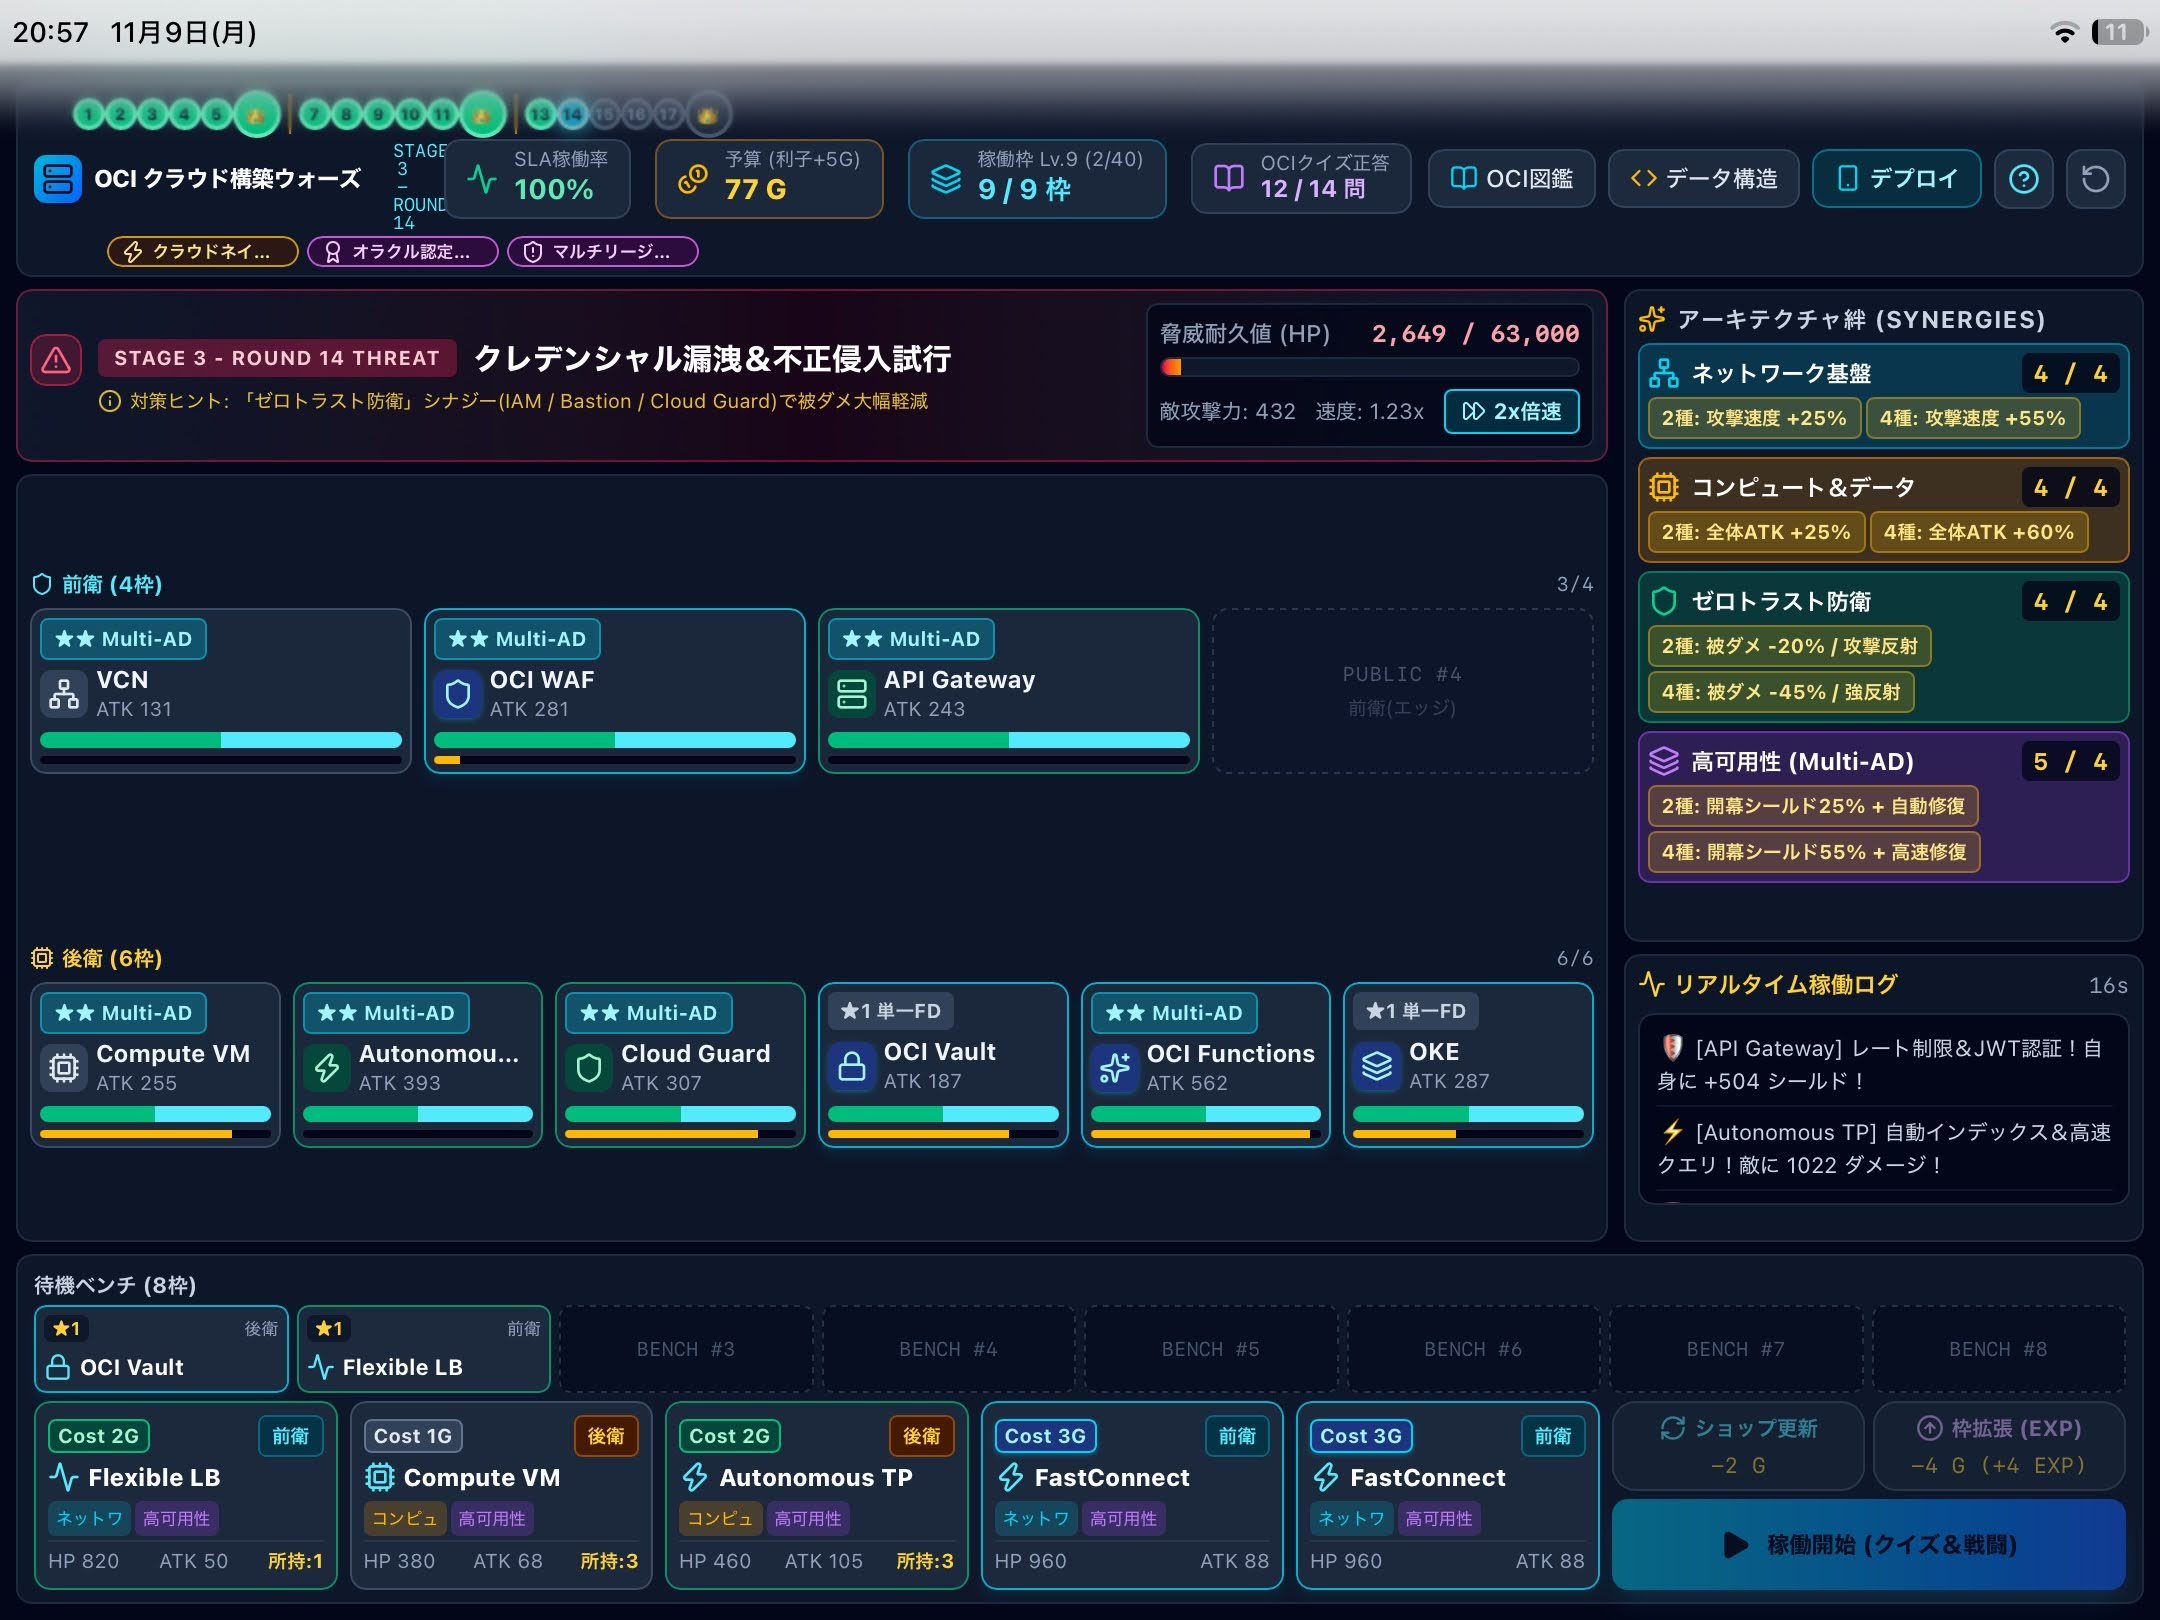
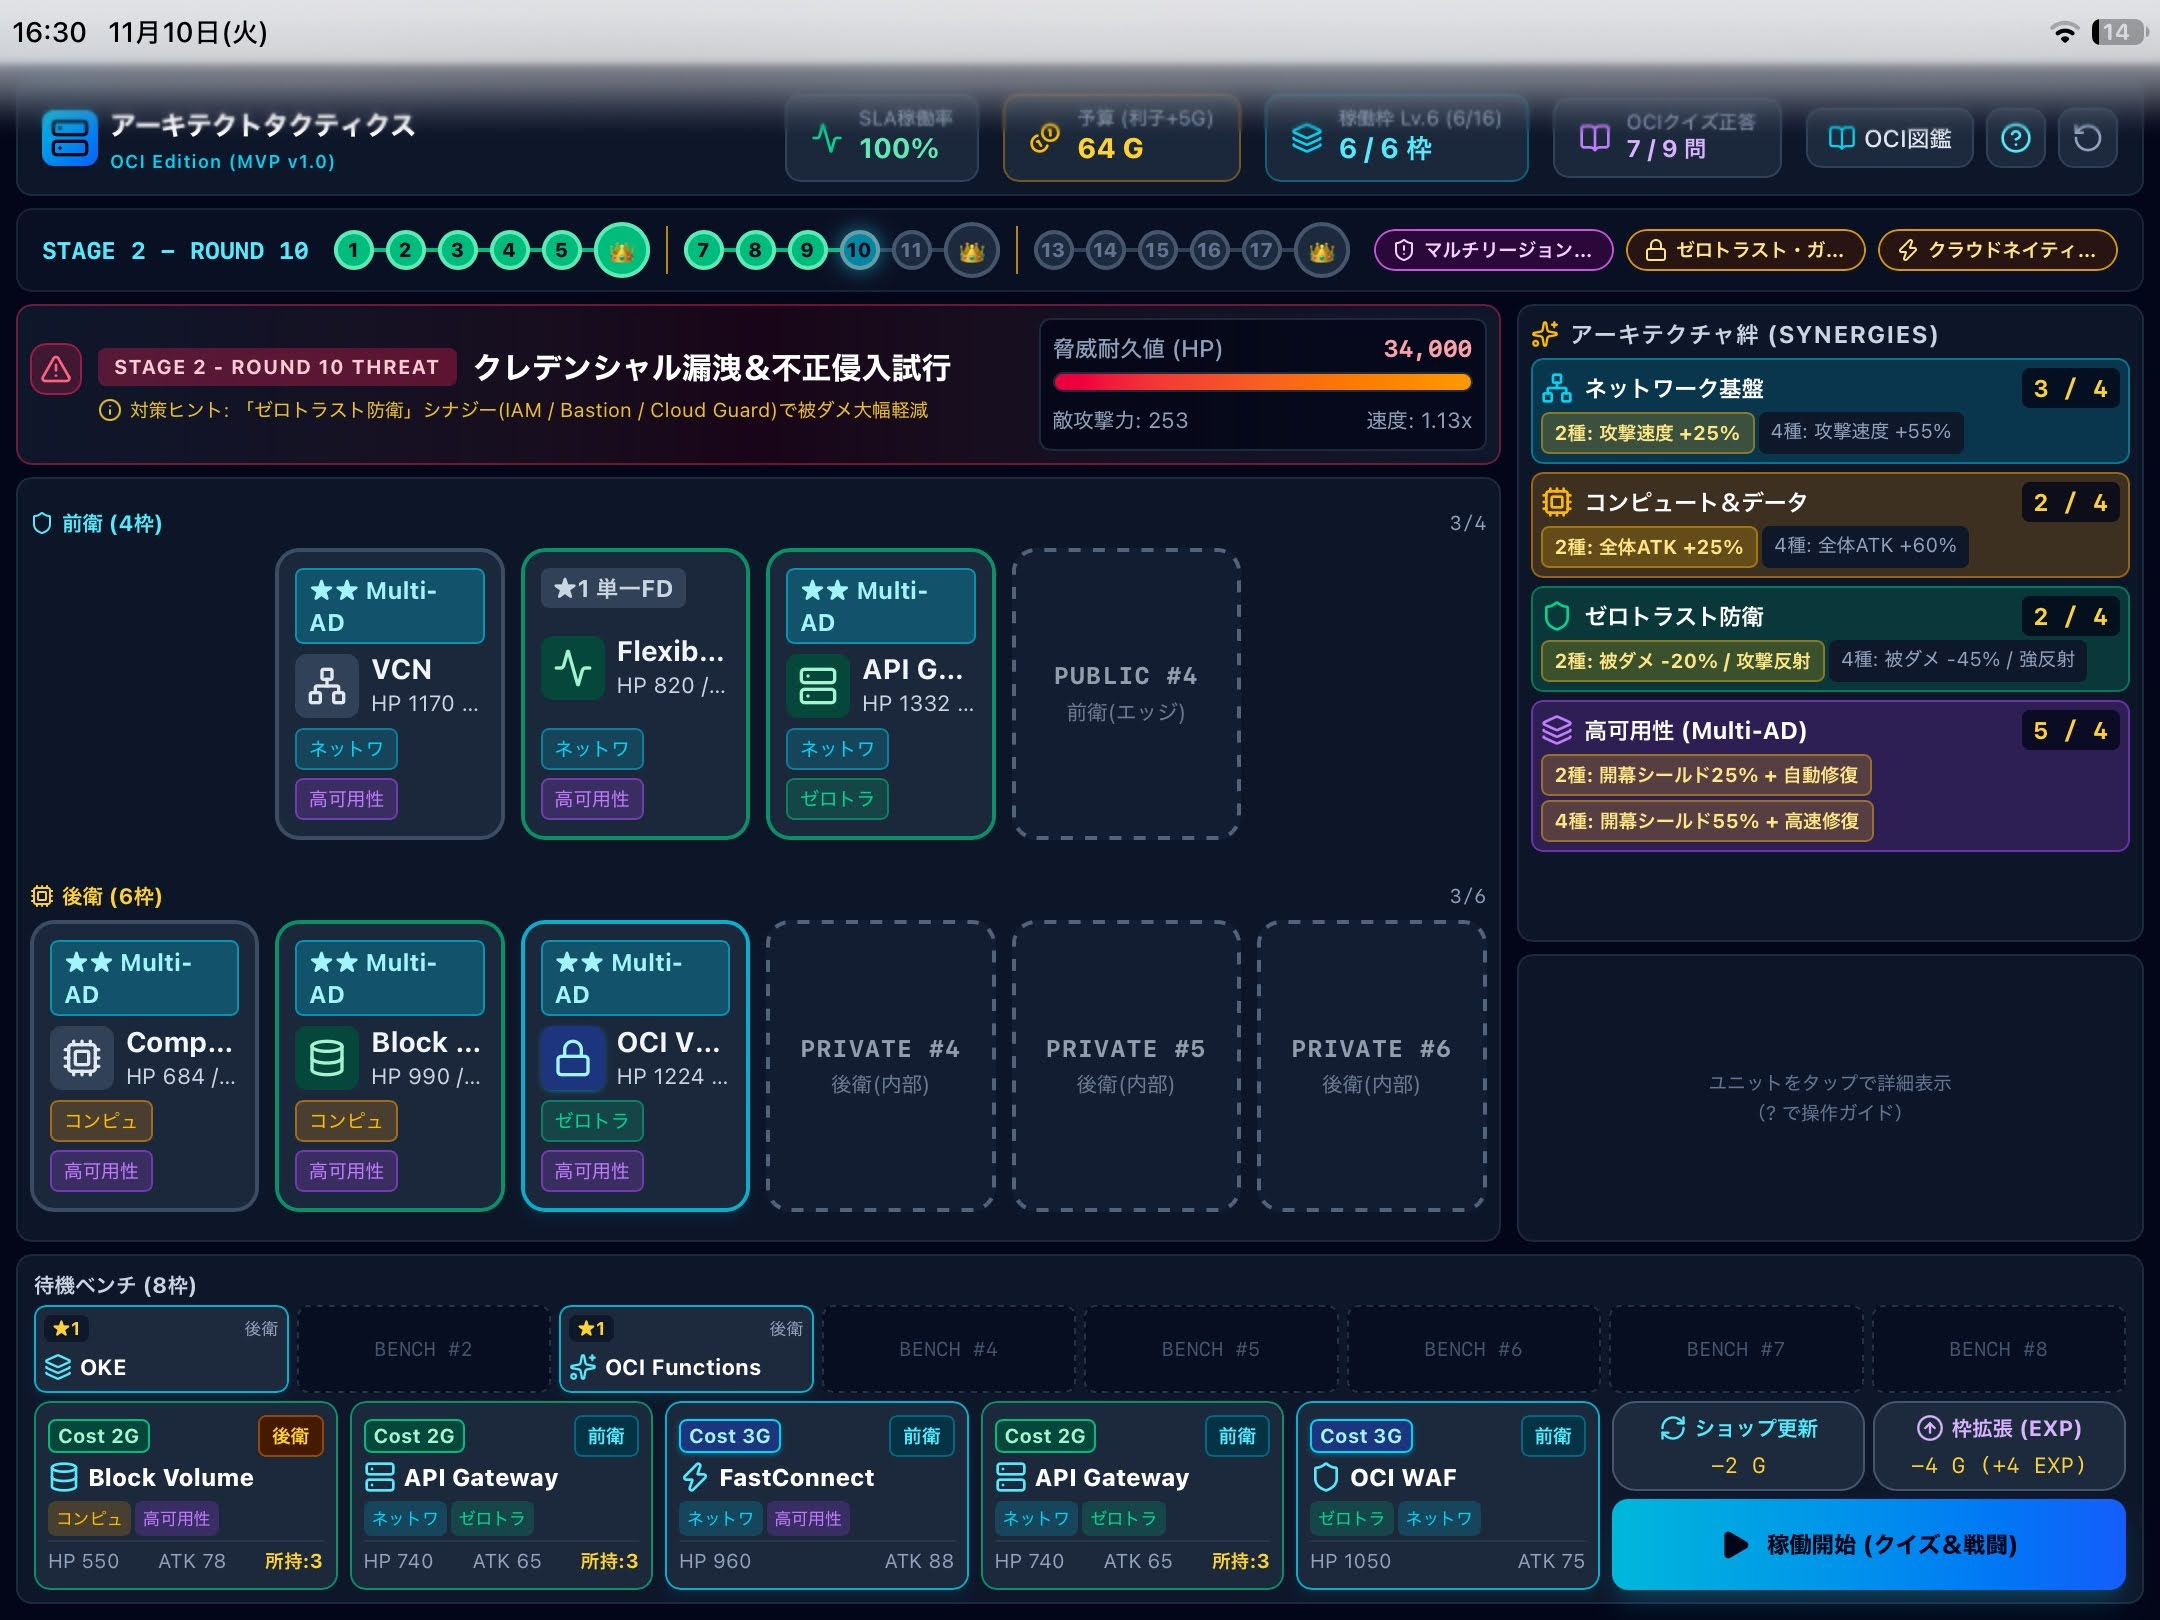
feat: update screenshot to latest UI and add online demo link

diff --git a/README.md b/README.md
@@ -5,6 +5,10 @@
 
 ![Game Screenshot](./docs/screenshot.jpg)
 
+### 🎮 オンラインで今すぐプレイ
+**[https://architect-tactics.pages.dev](https://architect-tactics.pages.dev)**
+*(PC / スマホ / iPadブラウザでそのまま動作します)*
+
 ## ✨ 主な特徴
 
 - **OCI 主要15サービス × 前衛・後衛スロット配置** と、4つのアーキテクチャシナジー（絆）
